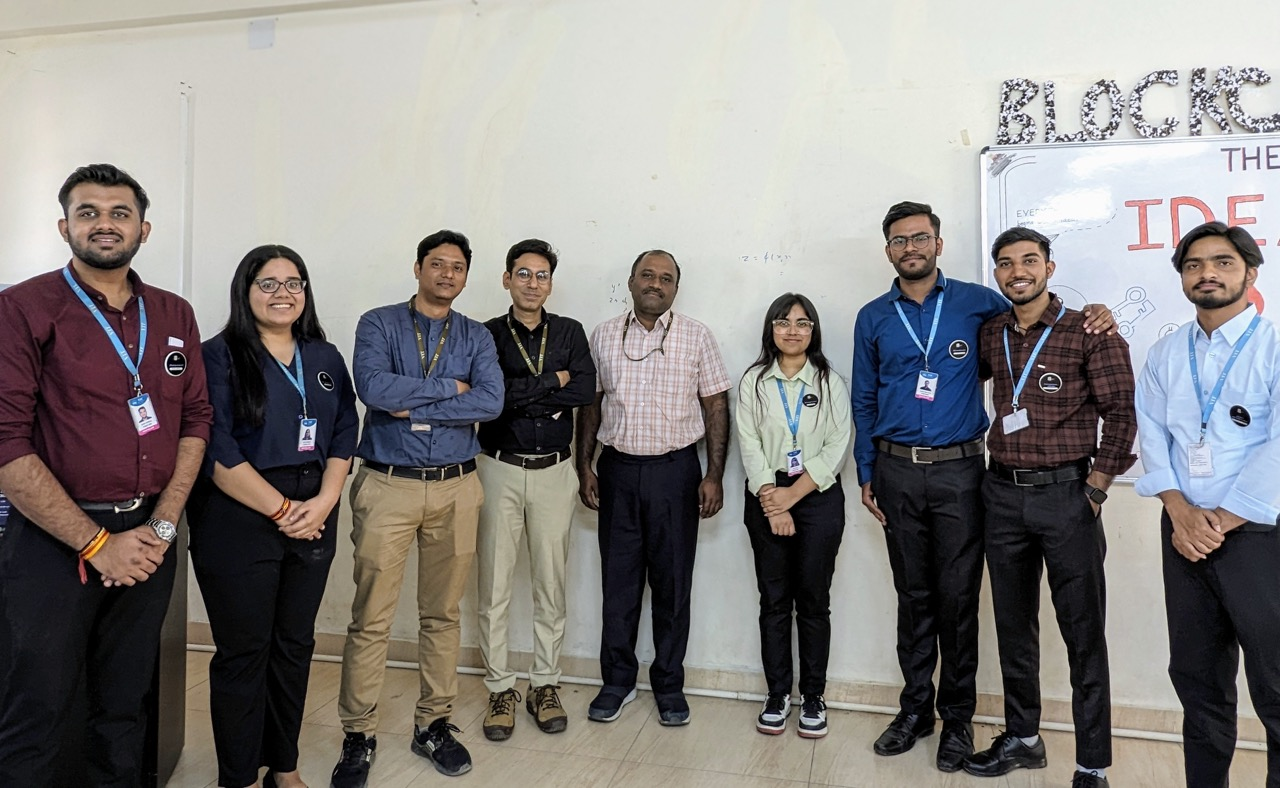
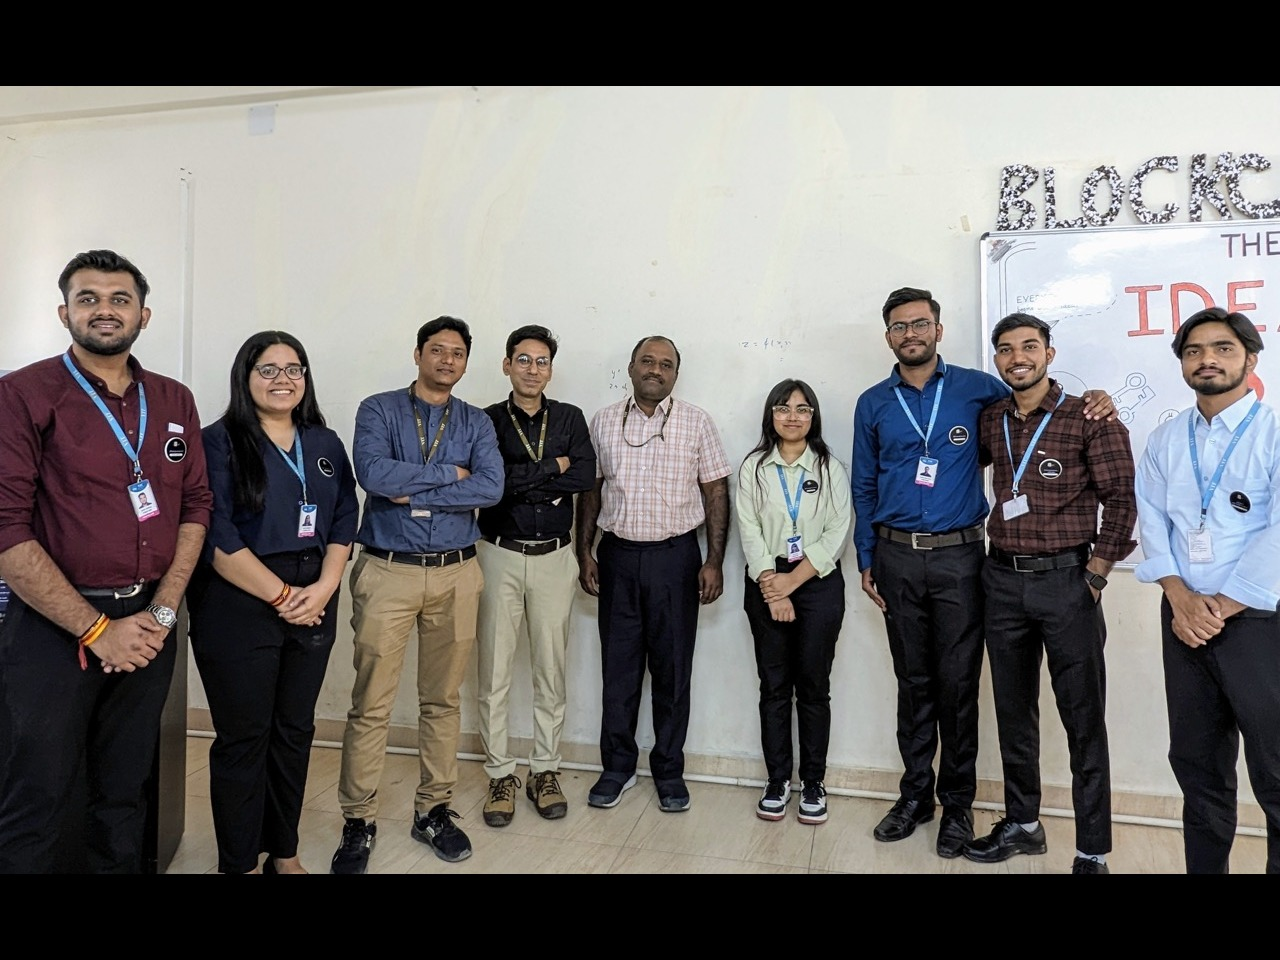
image sizing sorted

diff --git a/src/components/event/EventData.js b/src/components/event/EventData.js
@@ -1,17 +1,17 @@
 import {
-  Bitमंथन1,
-  Bitमंथन2,
-  Bitमंथन3,
-  Bitमंथन4,
-  Bitमंथन5,
-  Bitमंथन6,
-  Bitमंथन7,
-  Bitमंथन8,
-  Bitमंथन9,
-  Bitमंथन10,
-  Bitमंथन11,
-  Bitमंथन12,
-} from "../../assets/EventAssets/Bitमंथन";
+  BitManthan1,
+  BitManthan2,
+  BitManthan3,
+  BitManthan4,
+  BitManthan5,
+  BitManthan6,
+  BitManthan7,
+  BitManthan8,
+  BitManthan9,
+  BitManthan10,
+  BitManthan11,
+  BitManthan12,
+} from "../../assets/EventAssets/BitManthan";
 
 import {
   Ideathon1,
@@ -46,21 +46,21 @@ import {
 const EventData = () => [
   {
     id: 1,
-    name: "Bitमंथन",
+    name: "BitManthan",
     date: "28th Aug 2023",
     images: [
-      Bitमंथन1,
-      Bitमंथन2,
-      Bitमंथन3,
-      Bitमंथन4,
-      Bitमंथन5,
-      Bitमंथन6,
-      Bitमंथन7,
-      Bitमंथन8,
-      Bitमंथन9,
-      Bitमंथन10,
-      Bitमंथन11,
-      Bitमंथन12,
+      BitManthan1,
+      BitManthan2,
+      BitManthan3,
+      BitManthan4,
+      BitManthan5,
+      BitManthan6,
+      BitManthan7,
+      BitManthan8,
+      BitManthan9,
+      BitManthan10,
+      BitManthan11,
+      BitManthan12,
     ],
   },
   {

diff --git a/src/assets/EventAssets/BitManthan/index.js b/src/assets/EventAssets/BitManthan/index.js
@@ -1,0 +1,27 @@
+import BitManthan1 from "./BitManthan1.jpeg";
+import BitManthan2 from "./BitManthan2.jpeg";
+import BitManthan3 from "./BitManthan3.jpeg";
+import BitManthan4 from "./BitManthan4.jpeg";
+import BitManthan5 from "./BitManthan5.jpeg";
+import BitManthan6 from "./BitManthan6.jpeg";
+import BitManthan7 from "./BitManthan7.jpeg";
+import BitManthan8 from "./BitManthan8.jpeg";
+import BitManthan9 from "./BitManthan9.jpeg";
+import BitManthan10 from "./BitManthan10.jpeg";
+import BitManthan11 from "./BitManthan11.jpeg";
+import BitManthan12 from "./BitManthan12.jpeg";
+
+export {
+  BitManthan1,
+  BitManthan2,
+  BitManthan3,
+  BitManthan4,
+  BitManthan5,
+  BitManthan6,
+  BitManthan7,
+  BitManthan8,
+  BitManthan9,
+  BitManthan10,
+  BitManthan11,
+  BitManthan12,
+};
